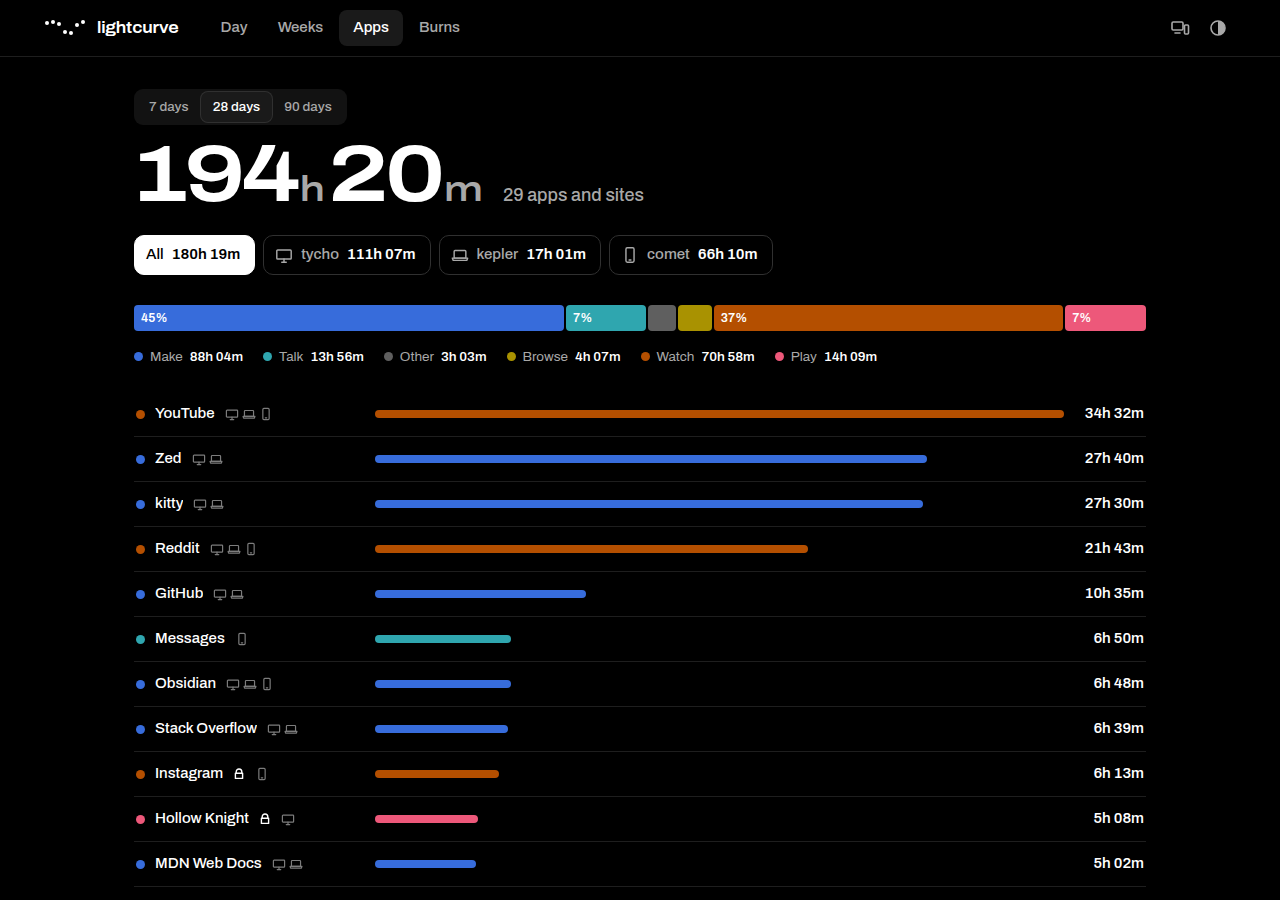
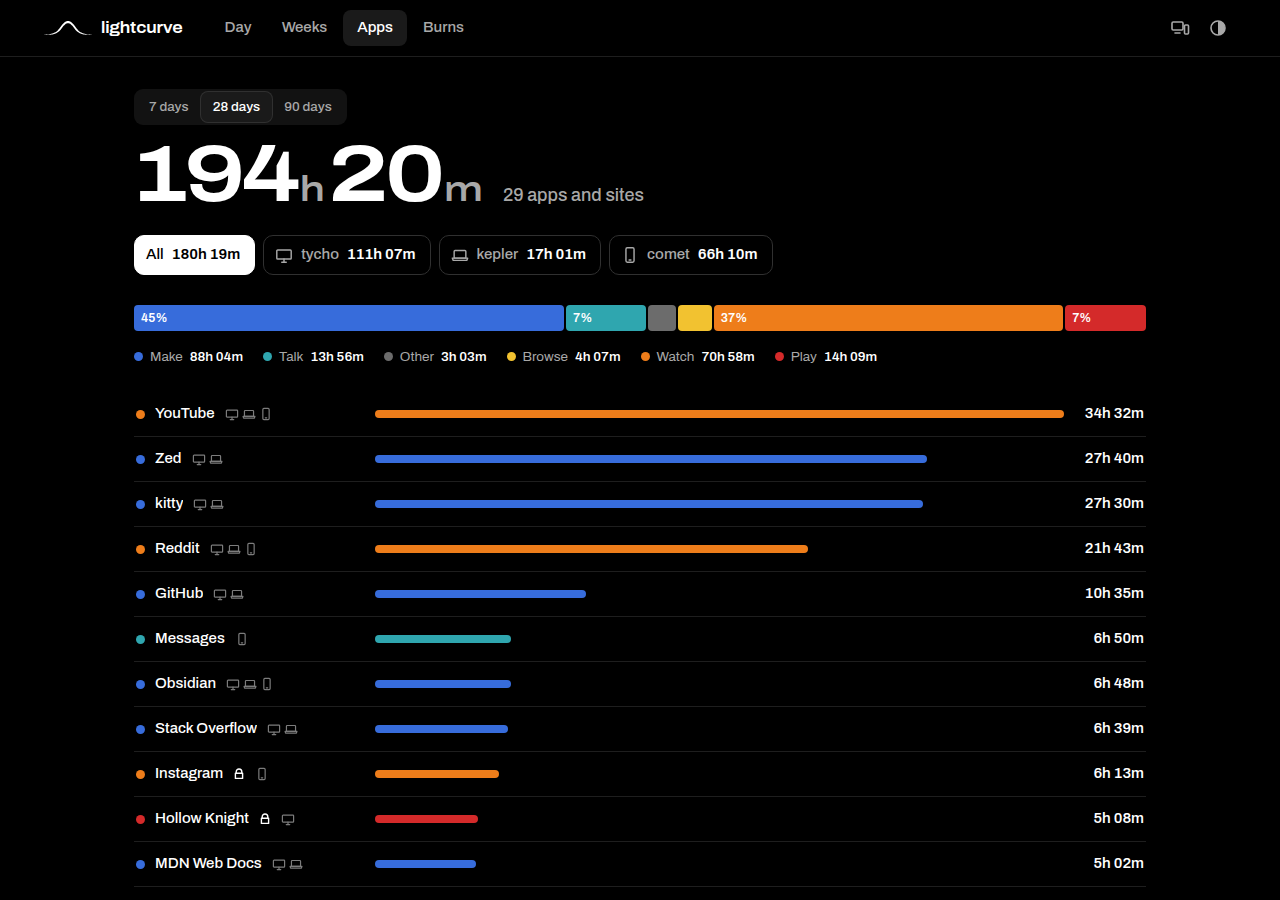
Cleaner warm colours: amber browse, orange watch, true red play

diff --git a/web/style.css b/web/style.css
@@ -18,10 +18,10 @@
   /* Good to bad: make, talk, other, browse, watch, play. */
   --make: #376cdb;
   --talk: #2fa6af;
-  --other: #5f5f5f;
-  --browse: #a99201;
-  --watch: #b44f00;
-  --play: #ed587a;
+  --other: #6c6c6c;
+  --browse: #f2c230;
+  --watch: #ee7d1a;
+  --play: #d42a2a;
   --dark: 1;
   --sans: "Archivo", "Helvetica Neue", Arial, sans-serif;
   --pad: clamp(16px, 4vw, 44px);
@@ -33,7 +33,7 @@
     --field: #e0e4df; --well: #d2d8d2; --raised: #eaede9; --line: #b4bcb5; --line-soft: #c9cfc9;
     --ink: #16171c; --ink-2: #454950; --ink-3: #6c7277;
     --burn: #141414; --burn-wash: rgba(20, 20, 20, .07); --alert: #c2281a;
-    --make: #007ce9; --talk: #19c3b8; --other: #848484; --browse: #c5ad29; --watch: #894300; --play: #ec424a;
+    --make: #007ce9; --talk: #19b5ab; --other: #7d7d7d; --browse: #eab308; --watch: #e8700e; --play: #c01a1a;
     --dark: 0;
     color-scheme: light;
   }
@@ -42,7 +42,7 @@
   --field: #e0e4df; --well: #d2d8d2; --raised: #eaede9; --line: #b4bcb5; --line-soft: #c9cfc9;
   --ink: #16171c; --ink-2: #454950; --ink-3: #6c7277;
   --burn: #141414; --burn-wash: rgba(20, 20, 20, .07); --alert: #c2281a;
-  --make: #007ce9; --talk: #19c3b8; --other: #848484; --browse: #c5ad29; --watch: #894300; --play: #ec424a;
+  --make: #007ce9; --talk: #19b5ab; --other: #7d7d7d; --browse: #eab308; --watch: #e8700e; --play: #c01a1a;
   --dark: 0;
   color-scheme: light;
 }

diff --git a/lightcurve/cli.py b/lightcurve/cli.py
@@ -34,8 +34,8 @@ lightcurve: when your screens were lit, and what was on them
 Add --json to any report for the numbers behind it.
 """
 
-SKY = {"make": (55, 108, 219), "talk": (47, 166, 175), "other": (130, 130, 130), "browse": (169, 146, 1),
-       "watch": (180, 79, 0), "play": (237, 88, 122)}
+SKY = {"make": (55, 108, 219), "talk": (47, 166, 175), "other": (130, 130, 130), "browse": (242, 194, 48),
+       "watch": (238, 125, 26), "play": (212, 42, 42)}
 INITIAL = {c[0]: c for c in core.CATEGORIES}
 BLOCKS = " ▁▂▃▄▅▆▇█"
 WEEKDAYS = ["monday", "tuesday", "wednesday", "thursday", "friday", "saturday", "sunday"]
